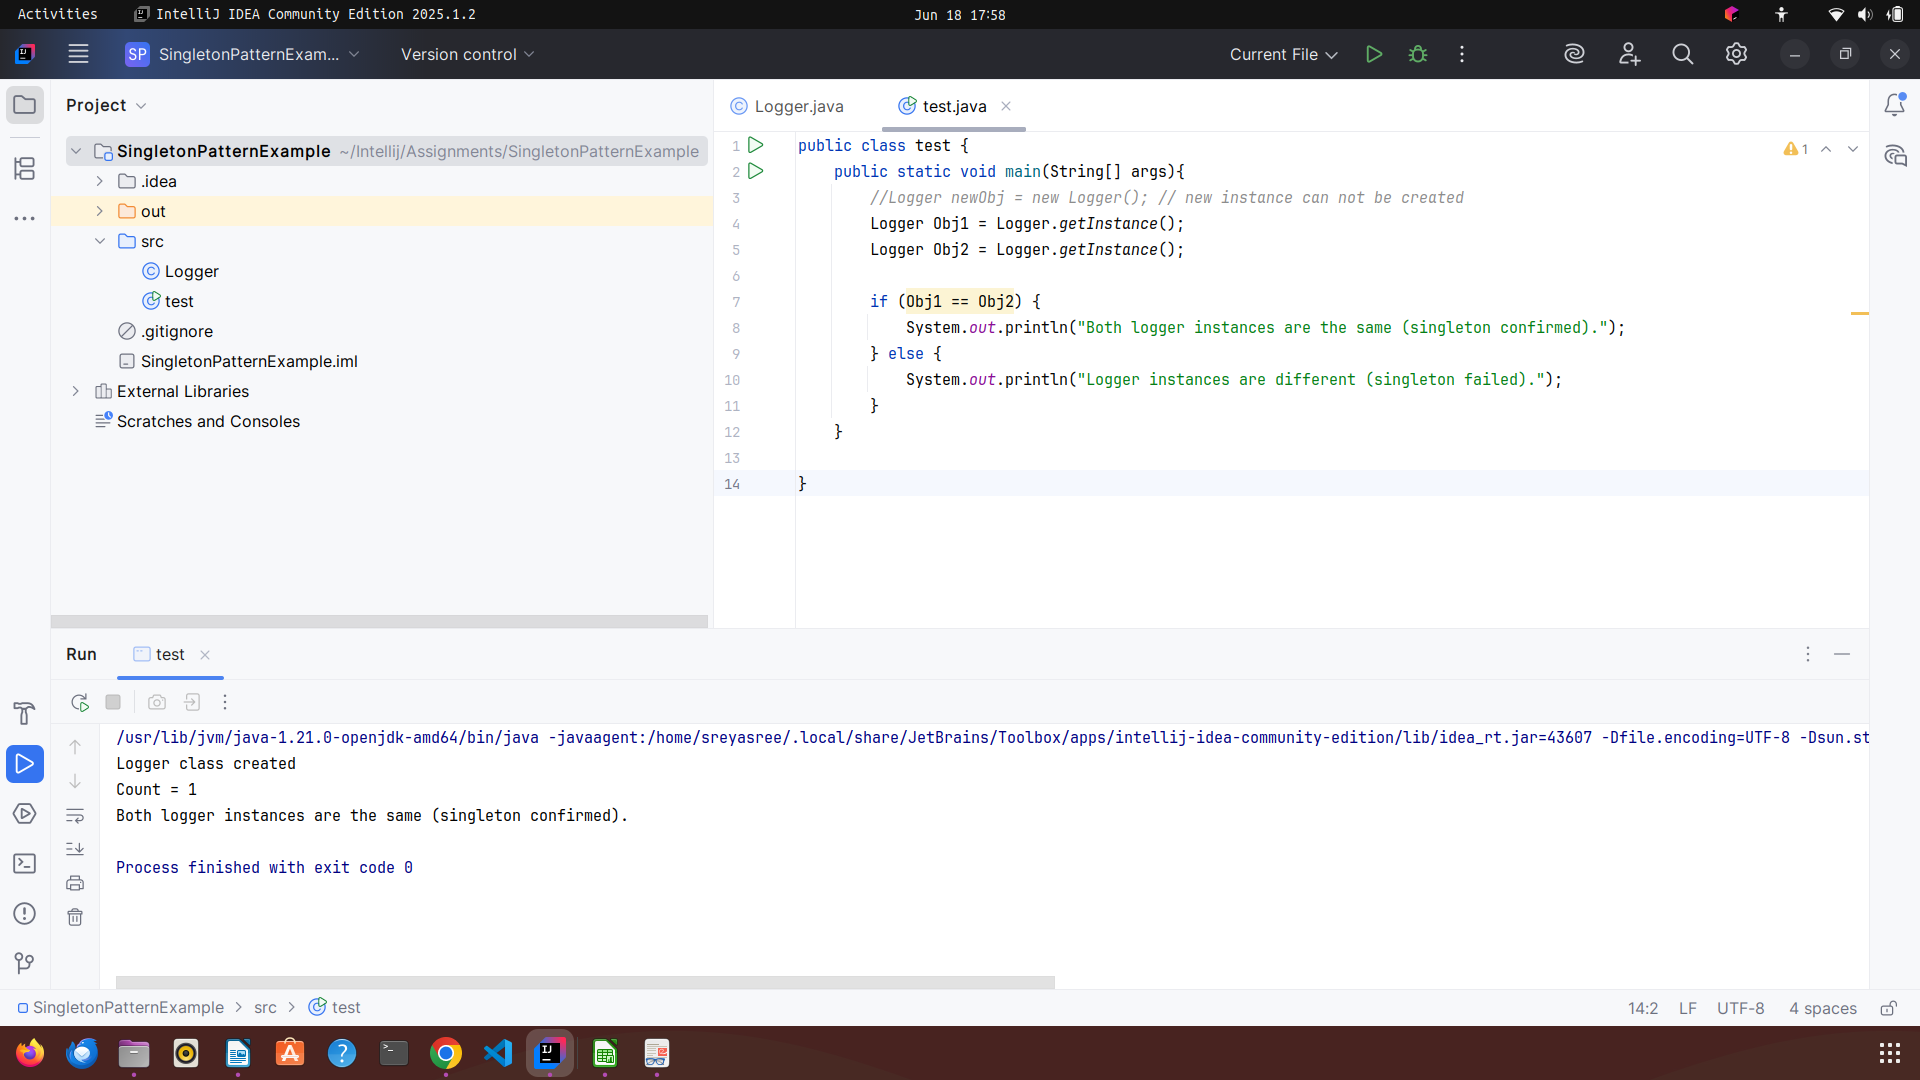
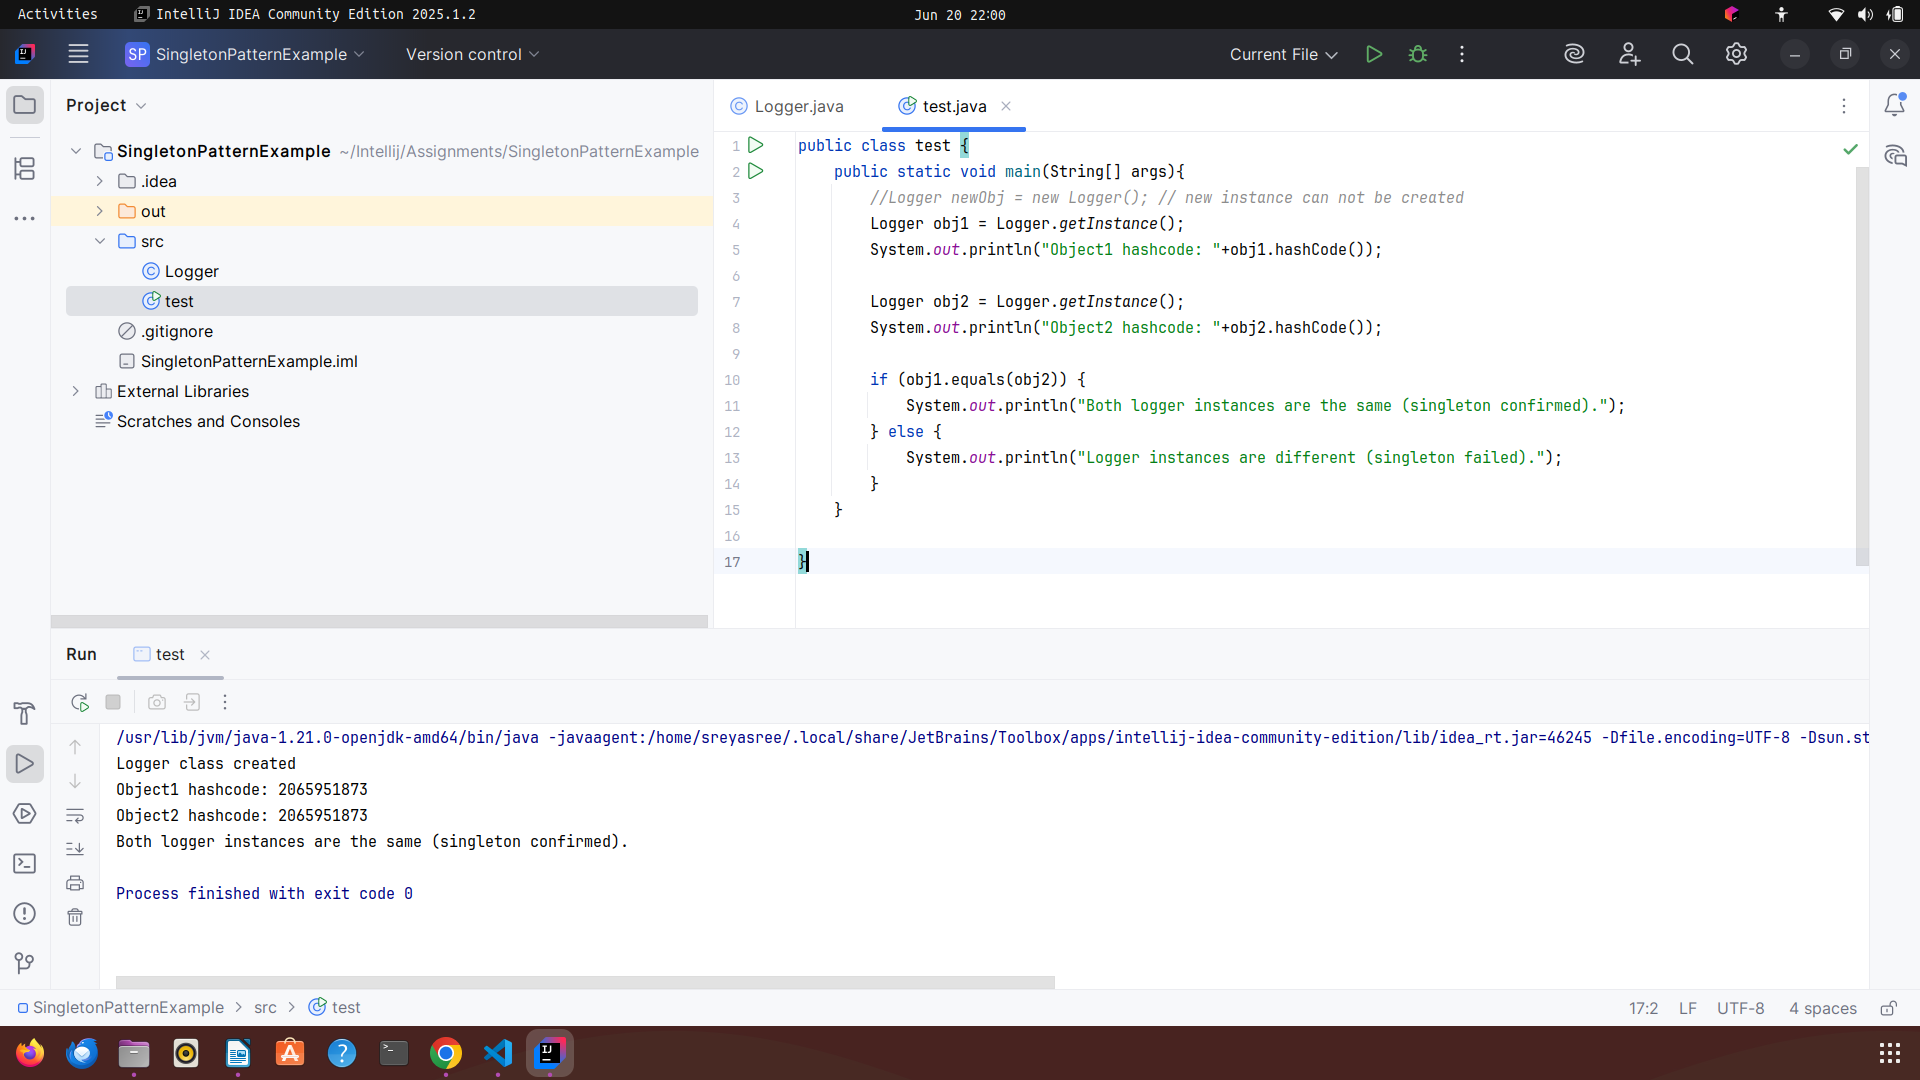
week-1 submissions

diff --git a/Week-1_Data Structures and Algorithms/2_E-commerce Platform Search Function/Code/src/Main.java b/Week-1_Data Structures and Algorithms/2_E-commerce Platform Search Function/Code/src/Main.java
@@ -5,18 +5,28 @@ import java.util.Scanner;
 
 public class Main {
     public static void main(String[] args){
-        Product[] products = {
-                new Product(1, "Laptop", "Electronics"),
-                new Product(2, "Shoes", "Footwear"),
-                new Product(3, "Book", "Education"),
-                new Product(4, "Mobile", "Electronics"),
-                new Product(5, "Watch", "Accessories")
-        };
         Scanner sc = new Scanner(System.in);
-        System.out.print("Enter name of the item: ");
+        System.out.print("Enter the number of products: ");
+        int n = sc.nextInt();
+        Product[] products = new Product[n];
+        for(int i=0;i<n;i++){
+            System.out.println("Enter product "+(i+1));
+            System.out.print("Enter id:");
+            long id = sc.nextLong();
+            System.out.print("Enter product name:");
+            sc.nextLine();
+            String name = sc.nextLine();
+            System.out.print("Enter product category:");
+            String category = sc.nextLine();
+            products[i] = new Product(id,name,category);
+        }
+
+        System.out.print("Enter name of the item to search: ");
         String productName = sc.nextLine();
 
         ProductController controller = new ProductController();
         controller.performSearch(products, productName);
+
+        sc.close();
     }
 }

diff --git a/Week-1_Design Patterns and Principles/1_Singleton Pattern Example/Code/src/test.java b/Week-1_Design Patterns and Principles/1_Singleton Pattern Example/Code/src/test.java
@@ -1,10 +1,13 @@
 public class test {
     public static void main(String[] args){
         //Logger newObj = new Logger(); // new instance can not be created
-        Logger Obj1 = Logger.getInstance();
-        Logger Obj2 = Logger.getInstance();
+        Logger obj1 = Logger.getInstance();
+        System.out.println("Object1 hashcode: "+obj1.hashCode());
 
-        if (Obj1 == Obj2) {
+        Logger obj2 = Logger.getInstance();
+        System.out.println("Object2 hashcode: "+obj2.hashCode());
+
+        if (obj1.equals(obj2)) {
             System.out.println("Both logger instances are the same (singleton confirmed).");
         } else {
             System.out.println("Logger instances are different (singleton failed).");

diff --git a/Week-1_Data Structures and Algorithms/7_Financial Forecasting/Code/src/Main.java b/Week-1_Data Structures and Algorithms/7_Financial Forecasting/Code/src/Main.java
@@ -1,11 +1,18 @@
+import java.util.Scanner;
+
 public class Main {
     public static void main(String[] args){
-        double initial = 10000;
-        double rate = 0.05;
-        int futureYears = 5;
+        Scanner sc = new Scanner(System.in);
+        System.out.print("Enter initial amount: ");
+        double initial = sc.nextDouble();
+        System.out.print("Enter growth rate: ");
+        double rate = sc.nextDouble();
+        System.out.print("Enter years: ");
+        int futureYears = sc.nextInt();
 
         double result = FinancialPredictor.forecast(initial, rate, futureYears);
         System.out.printf("Forecasted value after %d years: %.2f\n", futureYears, result);
 
+        sc.close();
     }
 }

diff --git a/Week-1_Design Patterns and Principles/1_Singleton Pattern Example/Code/src/Logger.java b/Week-1_Design Patterns and Principles/1_Singleton Pattern Example/Code/src/Logger.java
@@ -1,13 +1,19 @@
 public class Logger {
-    private static final Logger obj = new Logger();
-    private static int count = 0;
+    private static Logger obj = null;
+
     private Logger(){
-        count++;
         System.out.println("Logger class created ");
-        System.out.println("Count = "+count);
     }
+
+
     public static Logger getInstance(){
+        if(obj==null){
+            obj = new Logger();
+        }
         return obj;
     }
+
+    public void logDetails(String str){
+        System.out.println(str);
+    }
 }
-//Eager initialization

diff --git a/Week-1_Design Patterns and Principles/2_Factory Method Pattern Example/Code/src/test.java b/Week-1_Design Patterns and Principles/2_Factory Method Pattern Example/Code/src/test.java
@@ -18,5 +18,7 @@ public class test {
         Document doc = factory.createDocument();
         doc.open();
 
+        sc.close();
+
     }
 }
